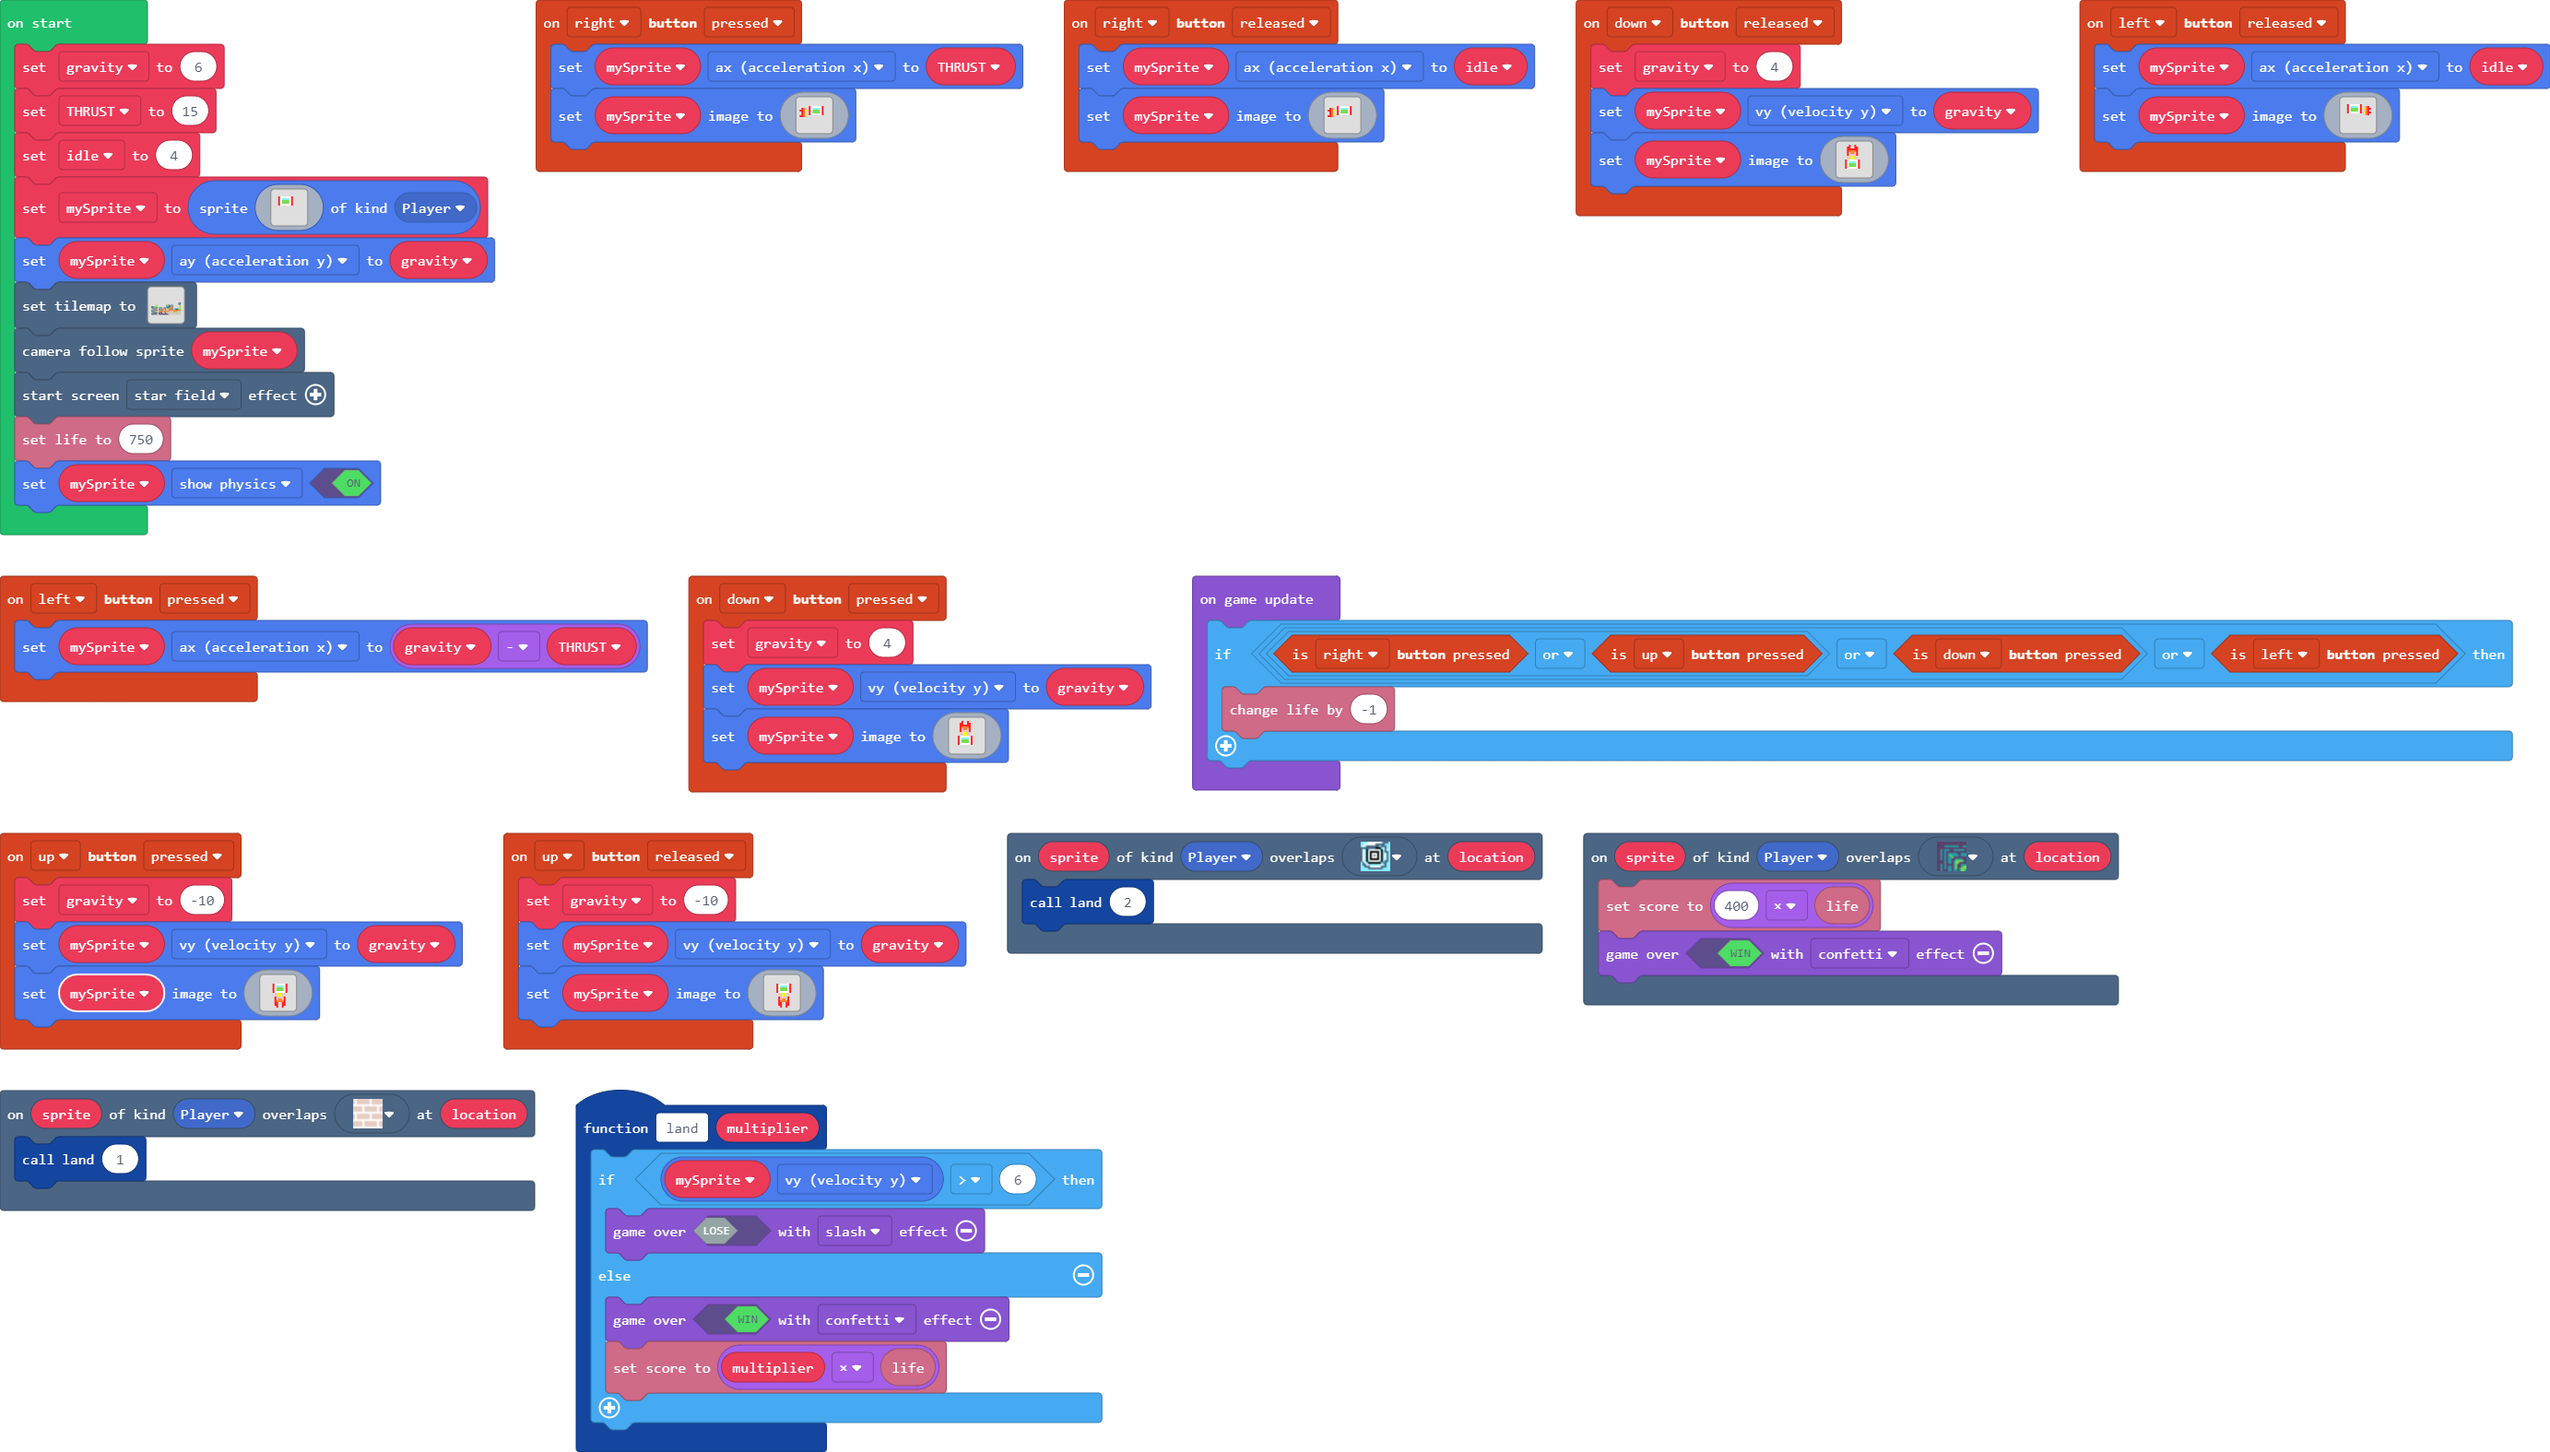
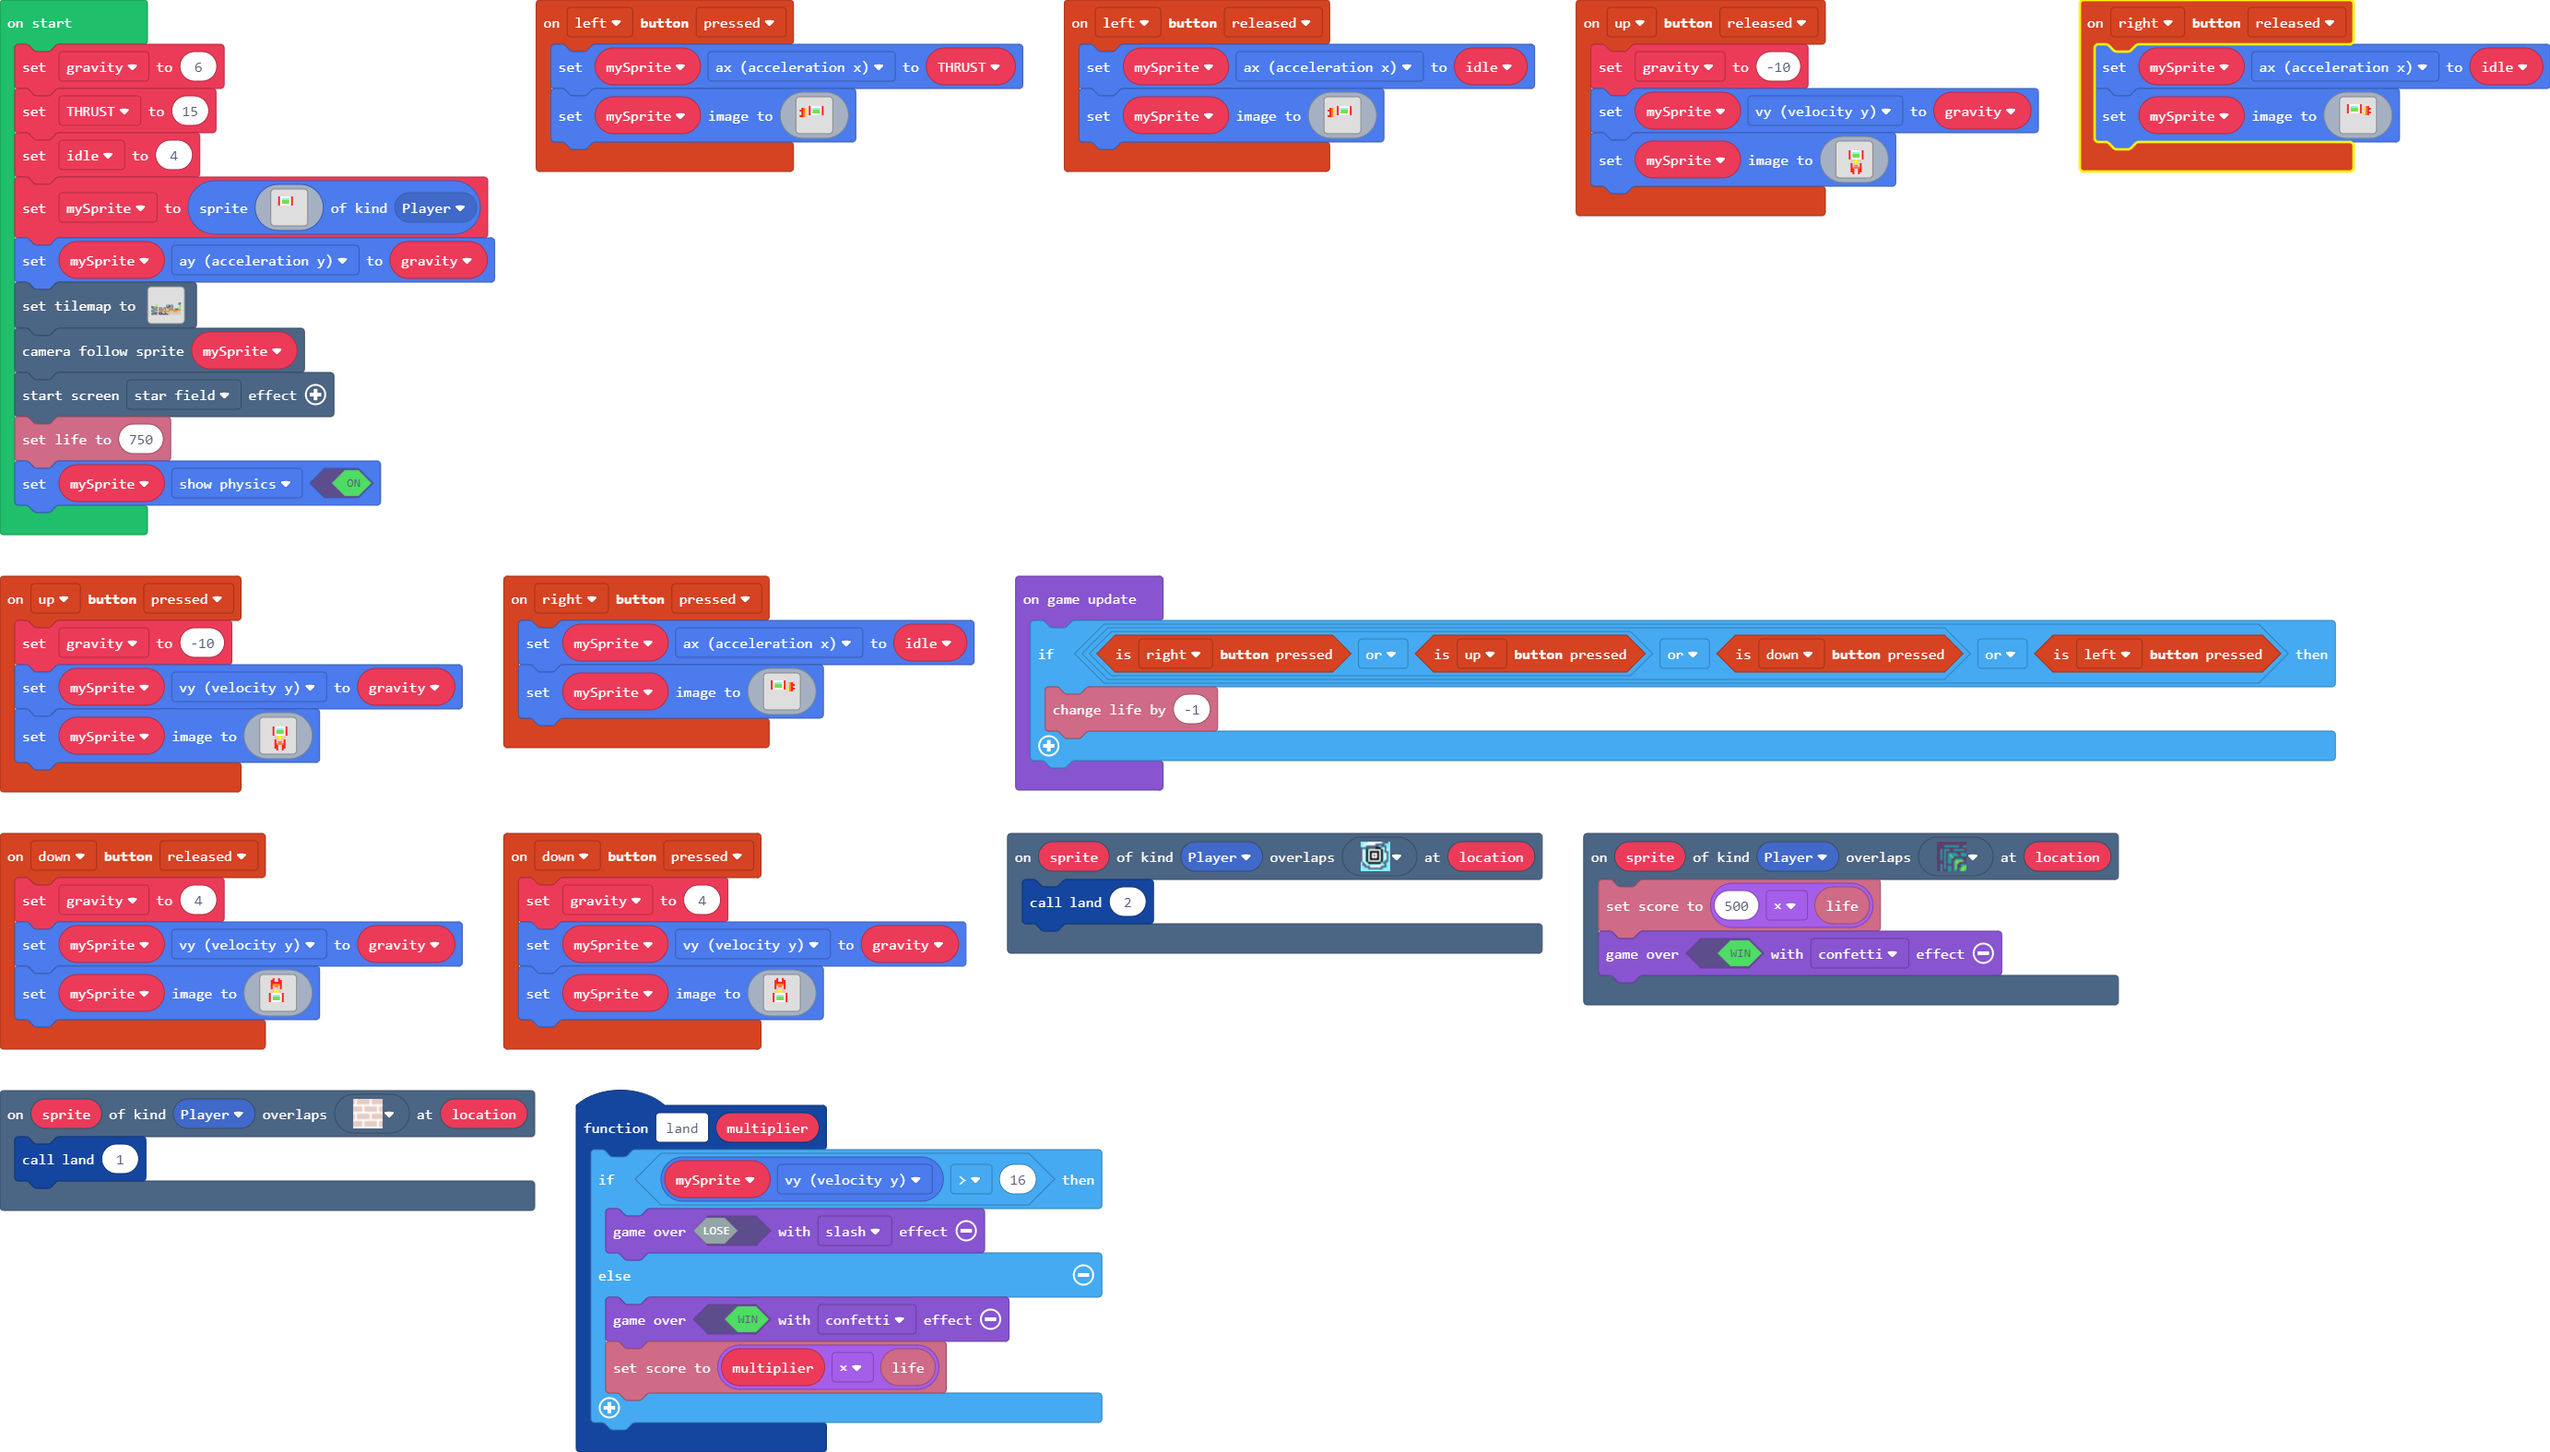
Final single player version

diff --git a/main.ts b/main.ts
@@ -117,16 +117,26 @@ controller.up.onEvent(ControllerButtonEvent.Released, function () {
 . . . . . . . 2 . . 2 . . . . . 
 `)
 })
-function land (multiplier: number) {
-    if (mySprite.vy > 6) {
-        game.over(false, effects.slash)
-    } else {
-        game.over(true, effects.confetti)
-        info.setScore(multiplier * info.life())
-    }
-}
 controller.left.onEvent(ControllerButtonEvent.Pressed, function () {
-    mySprite.ax = gravity - THRUST
+    mySprite.ax = THRUST
+    mySprite.setImage(img`
+. . . . . . . . . . . . . . . . 
+. . . . . . . . . . . . . . . . 
+. . . . . . . . . . . . . . . . 
+. . . . . 2 1 1 1 1 1 1 2 . . . 
+. 2 4 d . 2 1 9 9 9 9 1 2 . . . 
+2 2 4 5 d 2 1 7 7 7 7 1 2 . . . 
+. 2 4 d . 2 1 7 7 7 7 1 2 . . . 
+. 2 4 5 d 2 1 1 1 1 1 1 2 . . . 
+2 2 4 d . . . . . . . . . . . . 
+. . . . . . . . . . . . . . . . 
+. . . . . . . . . . . . . . . . 
+. . . . . . . . . . . . . . . . 
+. . . . . . . . . . . . . . . . 
+. . . . . . . . . . . . . . . . 
+. . . . . . . . . . . . . . . . 
+. . . . . . . . . . . . . . . . 
+`)
 })
 controller.down.onEvent(ControllerButtonEvent.Pressed, function () {
     gravity = 4
@@ -150,6 +160,14 @@ controller.down.onEvent(ControllerButtonEvent.Pressed, function () {
 . . . . . . . . . . . . . . . . 
 `)
 })
+function land (multiplier: number) {
+    if (mySprite.vy > 16) {
+        game.over(false, effects.slash)
+    } else {
+        game.over(true, effects.confetti)
+        info.setScore(multiplier * info.life())
+    }
+}
 scene.onOverlapTile(SpriteKind.Player, sprites.builtin.brick, function (sprite, location) {
     land(1)
 })
@@ -158,13 +176,13 @@ controller.left.onEvent(ControllerButtonEvent.Released, function () {
     mySprite.setImage(img`
 . . . . . . . . . . . . . . . . 
 . . . . . . . . . . . . . . . . 
-. . 2 1 1 1 1 1 1 2 . . . . . . 
-. . 2 1 9 9 9 9 1 2 . d 4 2 . . 
-. . 2 1 7 7 7 7 1 2 d 5 4 2 2 . 
-. . 2 1 7 7 7 7 1 2 . d 4 2 . . 
-. . 2 1 1 1 1 1 1 2 d 5 4 2 2 . 
-. . . . . . . . . . . d 4 2 . . 
 . . . . . . . . . . . . . . . . 
+. . . . . 2 1 1 1 1 1 1 2 . . . 
+. 2 4 d . 2 1 9 9 9 9 1 2 . . . 
+2 2 4 5 d 2 1 7 7 7 7 1 2 . . . 
+. 2 4 d . 2 1 7 7 7 7 1 2 . . . 
+. 2 4 5 d 2 1 1 1 1 1 1 2 . . . 
+2 2 4 d . . . . . . . . . . . . 
 . . . . . . . . . . . . . . . . 
 . . . . . . . . . . . . . . . . 
 . . . . . . . . . . . . . . . . 
@@ -200,17 +218,17 @@ scene.onOverlapTile(SpriteKind.Player, myTiles.tile4, function (sprite, location
     land(2)
 })
 controller.right.onEvent(ControllerButtonEvent.Pressed, function () {
-    mySprite.ax = THRUST
+    mySprite.ax = idle
     mySprite.setImage(img`
 . . . . . . . . . . . . . . . . 
 . . . . . . . . . . . . . . . . 
+. . 2 1 1 1 1 1 1 2 . . . . . . 
+. . 2 1 9 9 9 9 1 2 . d 4 2 . . 
+. . 2 1 7 7 7 7 1 2 d 5 4 2 2 . 
+. . 2 1 7 7 7 7 1 2 . d 4 2 . . 
+. . 2 1 1 1 1 1 1 2 d 5 4 2 2 . 
+. . . . . . . . . . . d 4 2 . . 
 . . . . . . . . . . . . . . . . 
-. . . . . 2 1 1 1 1 1 1 2 . . . 
-. 2 4 d . 2 1 9 9 9 9 1 2 . . . 
-2 2 4 5 d 2 1 7 7 7 7 1 2 . . . 
-. 2 4 d . 2 1 7 7 7 7 1 2 . . . 
-. 2 4 5 d 2 1 1 1 1 1 1 2 . . . 
-2 2 4 d . . . . . . . . . . . . 
 . . . . . . . . . . . . . . . . 
 . . . . . . . . . . . . . . . . 
 . . . . . . . . . . . . . . . . 
@@ -225,13 +243,13 @@ controller.right.onEvent(ControllerButtonEvent.Released, function () {
     mySprite.setImage(img`
 . . . . . . . . . . . . . . . . 
 . . . . . . . . . . . . . . . . 
+. . 2 1 1 1 1 1 1 2 . . . . . . 
+. . 2 1 9 9 9 9 1 2 . d 4 2 . . 
+. . 2 1 7 7 7 7 1 2 d 5 4 2 2 . 
+. . 2 1 7 7 7 7 1 2 . d 4 2 . . 
+. . 2 1 1 1 1 1 1 2 d 5 4 2 2 . 
+. . . . . . . . . . . d 4 2 . . 
 . . . . . . . . . . . . . . . . 
-. . . . . 2 1 1 1 1 1 1 2 . . . 
-. 2 4 d . 2 1 9 9 9 9 1 2 . . . 
-2 2 4 5 d 2 1 7 7 7 7 1 2 . . . 
-. 2 4 d . 2 1 7 7 7 7 1 2 . . . 
-. 2 4 5 d 2 1 1 1 1 1 1 2 . . . 
-2 2 4 d . . . . . . . . . . . . 
 . . . . . . . . . . . . . . . . 
 . . . . . . . . . . . . . . . . 
 . . . . . . . . . . . . . . . . 
@@ -264,7 +282,7 @@ controller.up.onEvent(ControllerButtonEvent.Pressed, function () {
 `)
 })
 scene.onOverlapTile(SpriteKind.Player, sprites.dungeon.greenInnerNorthWest, function (sprite, location) {
-    info.setScore(400 * info.life())
+    info.setScore(500 * info.life())
     game.over(true, effects.confetti)
 })
 let mySprite: Sprite = null
